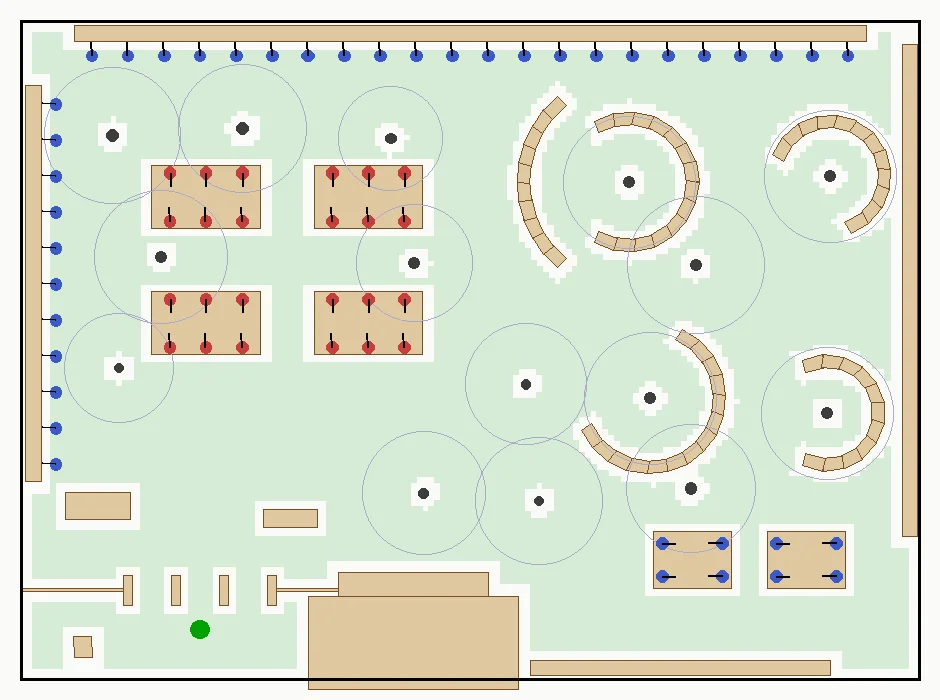
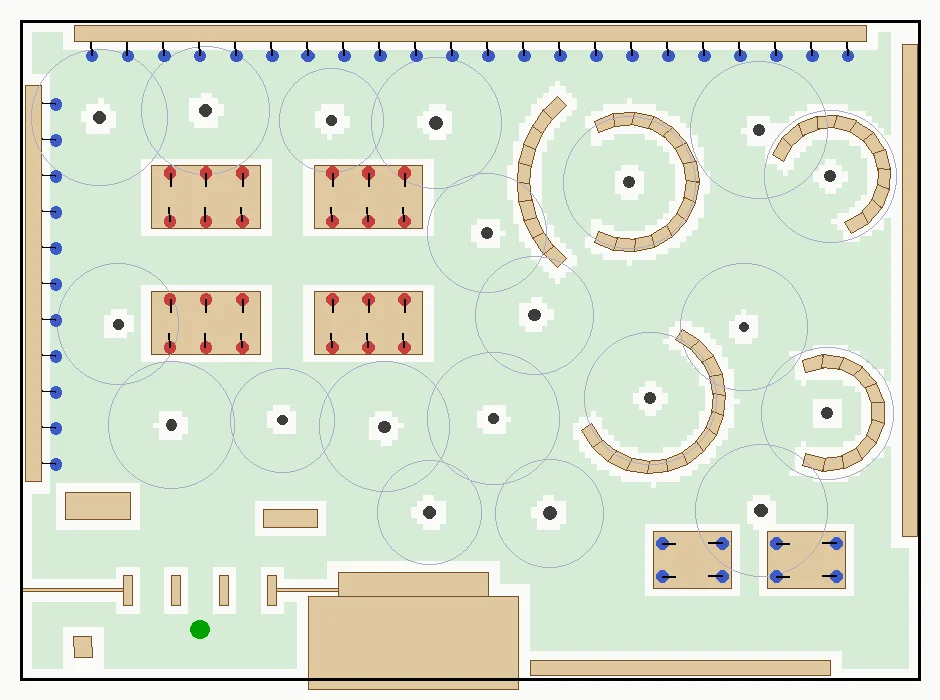
WIP（checkpoint）⑬：配置產生 src/data/soclib_layout.js（20 支樹狀柱、柱頂高度錯開、50 個天窗、導航阻擋 rects／circles、65 個座位）
Claude-Session: https://claude.ai/code/session_01AC1WVgJSmoJK1uRsPK2Zn1

diff --git a/src/data/soclib_layout.js b/src/data/soclib_layout.js
@@ -1,0 +1,4 @@
+/* ===== 社會科學院 辜振甫先生紀念圖書館（⑬）室內配置：tools/blender/env_second/soclib_layout_gen.py 產生，不要手改 =====
+   社會科學院 辜振甫先生紀念圖書館（⑬）的室內配置 → src/data/soclib_layout.js（const SOCLIB_LAYOUT= 後面接純 JSON）。
+   遊戲（LAWWW 的區域程式：導航格、座位、互動點）和 Blender（tools/blender/env_second/soclib_interior.py）讀同一份，兩邊一定對得上。 */
+const SOCLIB_LAYOUT={"version":1,"W":30.0,"D":22.0,"H":5.6,"wallT":0.2,"cell":0.4,"walls":{"north":"glass","west":"glass","east":"solid","south":"solid"},"entrance":{"x":-9.0,"w":2.4,"exitZ":10.2,"spawn":{"x":-9.0,"z":9.3,"yaw":3.1416}},"gates":{"z":8.0,"posts":[-11.4,-9.8,-8.2,-6.6],"postW":0.3,"postD":1.0,"rails":[[-14.9,-11.55],[-6.45,-4.4]]},"desk":{"x0":-4.4,"x1":0.6,"z0":7.4,"z1":8.2,"staff":{"z0":8.2,"z1":10.9}},"columns":[{"x":5.3,"z":-5.6,"r":0.19,"cap":2.2,"capY":5.07},{"x":12.0,"z":-5.8,"r":0.19,"cap":2.2,"capY":4.91},{"x":6.0,"z":1.6,"r":0.19,"cap":2.2,"capY":4.81},{"x":11.9,"z":2.1,"r":0.19,"cap":2.2,"capY":4.97},{"x":-12.36,"z":-7.74,"r":0.196,"cap":2.27,"capY":4.83},{"x":-8.82,"z":-7.98,"r":0.2,"cap":2.14,"capY":5.13},{"x":-4.62,"z":-7.65,"r":0.176,"cap":1.73,"capY":4.83},{"x":-1.13,"z":-7.57,"r":0.207,"cap":2.17,"capY":5.13},{"x":9.64,"z":-7.33,"r":0.179,"cap":2.28,"capY":4.92},{"x":0.56,"z":-3.91,"r":0.186,"cap":1.99,"capY":4.93},{"x":-11.72,"z":-0.86,"r":0.16,"cap":2.02,"capY":5.03},{"x":2.15,"z":-1.16,"r":0.191,"cap":1.97,"capY":5.04},{"x":9.14,"z":-0.77,"r":0.156,"cap":2.11,"capY":5.2},{"x":-9.95,"z":2.49,"r":0.177,"cap":2.11,"capY":5.1},{"x":-6.25,"z":2.34,"r":0.157,"cap":1.74,"capY":5.0},{"x":-2.85,"z":2.56,"r":0.187,"cap":2.17,"capY":5.24},{"x":0.78,"z":2.28,"r":0.168,"cap":2.2,"capY":5.02},{"x":-1.36,"z":5.42,"r":0.194,"cap":1.73,"capY":5.04},{"x":2.66,"z":5.44,"r":0.208,"cap":1.8,"capY":4.82},{"x":9.7,"z":5.36,"r":0.205,"cap":2.2,"capY":4.92}],"skylights":[{"x":1.95,"z":-9.07,"r":0.69},{"x":5.45,"z":-9.49,"r":0.47},{"x":12.63,"z":-9.42,"r":0.74},{"x":2.29,"z":-6.25,"r":0.67},{"x":-11.82,"z":-4.44,"r":0.75},{"x":-8.5,"z":-4.75,"r":0.68},{"x":-5.83,"z":-5.03,"r":0.6},{"x":-2.24,"z":-4.94,"r":0.53},{"x":8.03,"z":-4.6,"r":0.49},{"x":-13.66,"z":-3.28,"r":0.77},{"x":-7.25,"z":-3.21,"r":0.49},{"x":-3.79,"z":-3.3,"r":0.67},{"x":-8.47,"z":-1.85,"r":0.79},{"x":-5.82,"z":-1.78,"r":0.71},{"x":-2.43,"z":-1.56,"r":0.66},{"x":5.44,"z":-1.7,"r":0.67},{"x":12.84,"z":-1.5,"r":0.6},{"x":-7.37,"z":-0.04,"r":0.69},{"x":-1.16,"z":-0.44,"r":0.53},{"x":-13.66,"z":1.42,"r":0.73},{"x":-13.07,"z":4.73,"r":0.67},{"x":-11.72,"z":6.14,"r":0.55},{"x":-9.02,"z":5.88,"r":0.75},{"x":-5.86,"z":5.95,"r":0.64},{"x":-4.25,"z":6.19,"r":0.47},{"x":12.83,"z":5.92,"r":0.77},{"x":-13.75,"z":7.39,"r":0.63},{"x":-10.13,"z":7.79,"r":0.75},{"x":-7.06,"z":7.42,"r":0.66},{"x":-1.26,"z":7.84,"r":0.47},{"x":0.26,"z":7.4,"r":0.55},{"x":5.06,"z":7.35,"r":0.6},{"x":13.19,"z":7.71,"r":0.5},{"x":-13.38,"z":9.07,"r":0.5},{"x":-11.86,"z":9.39,"r":0.55},{"x":-5.84,"z":8.96,"r":0.46},{"x":-3.97,"z":9.21,"r":0.51},{"x":2.16,"z":8.98,"r":0.5},{"x":6.52,"z":9.33,"r":0.74},{"x":9.87,"z":8.91,"r":0.71}],"furniture":[{"type":"readingTable","x":-8.8,"z":-5.1,"w":3.6,"d":1.1,"seats":6},{"type":"readingTable","x":-8.8,"z":-0.9,"w":3.6,"d":1.1,"seats":6},{"type":"readingTable","x":-3.4,"z":-5.1,"w":3.6,"d":1.1,"seats":6},{"type":"readingTable","x":-3.4,"z":-0.9,"w":3.6,"d":1.1,"seats":6},{"type":"windowCounter","x0":-13.2,"x1":13.2,"z":-10.55,"d":0.55,"side":"north"},{"type":"windowCounter","z0":-8.8,"z1":4.4,"x":-14.55,"d":0.55,"side":"west"},{"type":"wallShelf","x":14.65,"z0":-10.2,"z1":6.2,"d":0.5,"h":2.4,"side":"east"},{"type":"arcShelf","cx":5.3,"cz":-5.6,"r":2.1,"a0":4.189,"a1":8.378,"d":0.42,"h":1.5},{"type":"arcShelf","cx":12.0,"cz":-5.8,"r":1.8,"a0":3.491,"a1":7.505,"d":0.42,"h":1.5},{"type":"arcShelf","cx":6.0,"cz":1.6,"r":2.3,"a0":-1.134,"a1":2.705,"d":0.42,"h":1.5},{"type":"arcShelf","cx":11.9,"cz":2.1,"r":1.7,"a0":4.276,"a1":8.29,"d":0.42,"h":1.5},{"type":"arcShelf","cx":5.3,"cz":-5.6,"r":3.5,"a0":2.269,"a1":4.014,"d":0.42,"h":1.2},{"type":"lounge","x":7.4,"z":7.0,"n":4},{"type":"lounge","x":11.2,"z":7.0,"n":4},{"type":"display","x":-12.4,"z":5.2,"w":2.2,"d":0.9},{"type":"opac","x":-6.0,"z":5.6,"n":2},{"type":"returnBox","x":-12.9,"z":9.9,"ry":1.5708},{"type":"periodicals","x0":2.0,"x1":12.0,"z":10.6,"d":0.5,"h":1.6}],"seats":[{"x":-10.0,"z":-5.9,"yaw":0.0,"kind":"table"},{"x":-10.0,"z":-4.3,"yaw":3.1416,"kind":"table"},{"x":-8.8,"z":-5.9,"yaw":0.0,"kind":"table"},{"x":-8.8,"z":-4.3,"yaw":3.1416,"kind":"table"},{"x":-7.6,"z":-5.9,"yaw":0.0,"kind":"table"},{"x":-7.6,"z":-4.3,"yaw":3.1416,"kind":"table"},{"x":-10.0,"z":-1.7,"yaw":0.0,"kind":"table"},{"x":-10.0,"z":-0.1,"yaw":3.1416,"kind":"table"},{"x":-8.8,"z":-1.7,"yaw":0.0,"kind":"table"},{"x":-8.8,"z":-0.1,"yaw":3.1416,"kind":"table"},{"x":-7.6,"z":-1.7,"yaw":0.0,"kind":"table"},{"x":-7.6,"z":-0.1,"yaw":3.1416,"kind":"table"},{"x":-4.6,"z":-5.9,"yaw":0.0,"kind":"table"},{"x":-4.6,"z":-4.3,"yaw":3.1416,"kind":"table"},{"x":-3.4,"z":-5.9,"yaw":0.0,"kind":"table"},{"x":-3.4,"z":-4.3,"yaw":3.1416,"kind":"table"},{"x":-2.2,"z":-5.9,"yaw":0.0,"kind":"table"},{"x":-2.2,"z":-4.3,"yaw":3.1416,"kind":"table"},{"x":-4.6,"z":-1.7,"yaw":0.0,"kind":"table"},{"x":-4.6,"z":-0.1,"yaw":3.1416,"kind":"table"},{"x":-3.4,"z":-1.7,"yaw":0.0,"kind":"table"},{"x":-3.4,"z":-0.1,"yaw":3.1416,"kind":"table"},{"x":-2.2,"z":-1.7,"yaw":0.0,"kind":"table"},{"x":-2.2,"z":-0.1,"yaw":3.1416,"kind":"table"},{"x":-12.6,"z":-9.8,"yaw":3.1416,"kind":"window"},{"x":-11.4,"z":-9.8,"yaw":3.1416,"kind":"window"},{"x":-10.2,"z":-9.8,"yaw":3.1416,"kind":"window"},{"x":-9.0,"z":-9.8,"yaw":3.1416,"kind":"window"},{"x":-7.8,"z":-9.8,"yaw":3.1416,"kind":"window"},{"x":-6.6,"z":-9.8,"yaw":3.1416,"kind":"window"},{"x":-5.4,"z":-9.8,"yaw":3.1416,"kind":"window"},{"x":-4.2,"z":-9.8,"yaw":3.1416,"kind":"window"},{"x":-3.0,"z":-9.8,"yaw":3.1416,"kind":"window"},{"x":-1.8,"z":-9.8,"yaw":3.1416,"kind":"window"},{"x":-0.6,"z":-9.8,"yaw":3.1416,"kind":"window"},{"x":0.6,"z":-9.8,"yaw":3.1416,"kind":"window"},{"x":1.8,"z":-9.8,"yaw":3.1416,"kind":"window"},{"x":3.0,"z":-9.8,"yaw":3.1416,"kind":"window"},{"x":4.2,"z":-9.8,"yaw":3.1416,"kind":"window"},{"x":5.4,"z":-9.8,"yaw":3.1416,"kind":"window"},{"x":6.6,"z":-9.8,"yaw":3.1416,"kind":"window"},{"x":7.8,"z":-9.8,"yaw":3.1416,"kind":"window"},{"x":9.0,"z":-9.8,"yaw":3.1416,"kind":"window"},{"x":10.2,"z":-9.8,"yaw":3.1416,"kind":"window"},{"x":11.4,"z":-9.8,"yaw":3.1416,"kind":"window"},{"x":12.6,"z":-9.8,"yaw":3.1416,"kind":"window"},{"x":-13.8,"z":-8.2,"yaw":-1.5708,"kind":"window"},{"x":-13.8,"z":-7.0,"yaw":-1.5708,"kind":"window"},{"x":-13.8,"z":-5.8,"yaw":-1.5708,"kind":"window"},{"x":-13.8,"z":-4.6,"yaw":-1.5708,"kind":"window"},{"x":-13.8,"z":-3.4,"yaw":-1.5708,"kind":"window"},{"x":-13.8,"z":-2.2,"yaw":-1.5708,"kind":"window"},{"x":-13.8,"z":-1.0,"yaw":-1.5708,"kind":"window"},{"x":-13.8,"z":0.2,"yaw":-1.5708,"kind":"window"},{"x":-13.8,"z":1.4,"yaw":-1.5708,"kind":"window"},{"x":-13.8,"z":2.6,"yaw":-1.5708,"kind":"window"},{"x":-13.8,"z":3.8,"yaw":-1.5708,"kind":"window"},{"x":6.4,"z":6.45,"yaw":1.5708,"kind":"lounge"},{"x":6.4,"z":7.55,"yaw":1.5708,"kind":"lounge"},{"x":8.4,"z":6.45,"yaw":-1.5708,"kind":"lounge"},{"x":8.4,"z":7.55,"yaw":-1.5708,"kind":"lounge"},{"x":10.2,"z":6.45,"yaw":1.5708,"kind":"lounge"},{"x":10.2,"z":7.55,"yaw":1.5708,"kind":"lounge"},{"x":12.2,"z":6.45,"yaw":-1.5708,"kind":"lounge"},{"x":12.2,"z":7.55,"yaw":-1.5708,"kind":"lounge"}],"signs":[{"text":"社會科學院圖書館","x":-2.0,"z":10.88,"y":3.6,"ry":3.1416,"w":3.6}],"nav":{"rects":[[-8.8,-5.1,3.6,2.1,0],[-8.8,-0.9,3.6,2.1,0],[-3.4,-5.1,3.6,2.1,0],[-3.4,-0.9,3.6,2.1,0],[0.0,-10.55,26.4,0.55,0],[-14.55,-2.2,0.55,13.2,0],[14.65,-2.0,0.5,16.4,0],[4.533,-7.555,0.688,0.42,-2.768],[5.144,-7.694,0.688,0.42,-3.067],[5.768,-7.647,0.688,0.42,-3.366],[6.35,-7.418,0.688,0.42,-3.666],[6.84,-7.028,0.688,0.42,-3.965],[7.192,-6.511,0.688,0.42,-4.264],[7.377,-5.912,0.688,0.42,-4.563],[7.376,-5.286,0.688,0.42,-4.862],[7.192,-4.688,0.688,0.42,-5.162],[6.839,-4.171,0.688,0.42,-5.461],[6.349,-3.781,0.688,0.42,-5.76],[5.767,-3.552,0.688,0.42,-6.059],[5.142,-3.506,0.688,0.42,-6.358],[4.532,-3.645,0.688,0.42,-6.658],[10.435,-6.689,0.662,0.42,-2.087],[10.814,-7.154,0.662,0.42,-2.422],[11.324,-7.468,0.662,0.42,-2.756],[11.909,-7.598,0.662,0.42,-3.091],[12.504,-7.528,0.662,0.42,-3.425],[13.043,-7.267,0.662,0.42,-3.76],[13.467,-6.843,0.662,0.42,-4.095],[13.728,-6.303,0.662,0.42,-4.429],[13.798,-5.708,0.662,0.42,-4.763],[13.668,-5.123,0.662,0.42,-5.098],[13.353,-4.613,0.662,0.42,-5.433],[12.888,-4.235,0.662,0.42,-5.767],[7.249,-0.332,0.691,0.42,2.568],[7.725,0.079,0.691,0.42,2.293],[8.073,0.603,0.691,0.42,2.019],[8.265,1.201,0.691,0.42,1.745],[8.289,1.83,0.691,0.42,1.471],[8.141,2.441,0.691,0.42,1.197],[7.833,2.989,0.691,0.42,0.922],[7.389,3.434,0.691,0.42,0.648],[6.84,3.741,0.691,0.42,0.374],[6.229,3.889,0.691,0.42,0.1],[5.601,3.865,0.691,0.42,-0.174],[5.002,3.672,0.691,0.42,-0.449],[4.478,3.325,0.691,0.42,-0.723],[4.068,2.848,0.691,0.42,-0.997],[11.473,0.455,0.68,0.42,-2.888],[12.088,0.41,0.68,0.42,-3.253],[12.679,0.589,0.68,0.42,-3.618],[13.167,0.966,0.68,0.42,-3.982],[13.488,1.493,0.68,0.42,-4.347],[13.6,2.1,0.68,0.42,-4.712],[13.488,2.706,0.68,0.42,-5.077],[13.167,3.233,0.68,0.42,-5.442],[12.679,3.611,0.68,0.42,-5.807],[12.089,3.789,0.68,0.42,-6.172],[11.474,3.746,0.68,0.42,-6.537],[2.825,-3.125,0.671,0.42,-0.785],[2.433,-3.593,0.671,0.42,-0.96],[2.128,-4.121,0.671,0.42,-1.135],[1.919,-4.694,0.671,0.42,-1.309],[1.813,-5.295,0.671,0.42,-1.484],[1.813,-5.905,0.671,0.42,-1.658],[1.919,-6.505,0.671,0.42,-1.833],[2.128,-7.079,0.671,0.42,-2.007],[2.433,-7.607,0.671,0.42,-2.182],[2.825,-8.074,0.671,0.42,-2.356],[7.4,7.0,2.6,1.9,0],[11.2,7.0,2.6,1.9,0],[-12.4,5.2,2.2,0.9,0],[-6.0,5.6,1.8,0.6,0],[-12.9,9.9,0.7,0.6,1.571],[7.0,10.6,10.0,0.5,0],[-11.4,8.0,0.3,1.0,0],[-9.8,8.0,0.3,1.0,0],[-8.2,8.0,0.3,1.0,0],[-6.6,8.0,0.3,1.0,0],[-13.225,8.0,3.35,0.1,0],[-5.425,8.0,2.05,0.1,0],[-1.9,7.8,5.0,0.8,0],[-1.9,9.75,7.0,3.1,0]],"circles":[[5.3,-5.6,0.24],[12.0,-5.8,0.24],[6.0,1.6,0.24],[11.9,2.1,0.24],[-12.36,-7.74,0.246],[-8.82,-7.98,0.25],[-4.62,-7.65,0.226],[-1.13,-7.57,0.257],[9.64,-7.33,0.229],[0.56,-3.91,0.236],[-11.72,-0.86,0.21],[2.15,-1.16,0.241],[9.14,-0.77,0.206],[-9.95,2.49,0.227],[-6.25,2.34,0.207],[-2.85,2.56,0.237],[0.78,2.28,0.218],[-1.36,5.42,0.244],[2.66,5.44,0.258],[9.7,5.36,0.255]],"note":"rects＝[中心x, 中心z, 寬(沿 ry 轉過的 x), 深, ry]；circles＝[x, z, r]；牆照 W×D、wallT 另外擋；入口門洞在南牆 x=entrance.x 寬 entrance.w"}};

diff --git a/tools/blender/env_second/soclib_layout_gen.py b/tools/blender/env_second/soclib_layout_gen.py
@@ -78,15 +78,27 @@ def clear_of_furniture(x, z):
         if t == 'readingTable' and abs(x - f['x']) < f['w'] / 2 + 0.9 and abs(z - f['z']) < f['d'] / 2 + 1.4: return False
         if t == 'lounge' and abs(x - f['x']) < 2.2 and abs(z - f['z']) < 1.6: return False
     return True
-for j, z in enumerate([-7.0, -3.0, 1.0, 4.8]):
-    for i, x in enumerate([-11.6, -7.2, -2.8, 1.6, 6.0, 10.4]):
-        xx = x + (1.1 if j % 2 else 0.0) + rng.uniform(-0.45, 0.45); zz = z + rng.uniform(-0.4, 0.4)
+for j, z in enumerate([-7.6, -4.3, -1.0, 2.3, 5.4]):
+    for i, x in enumerate([-12.0, -8.4, -4.8, -1.2, 2.4, 6.0, 9.6, 13.2]):
+        xx = x + (1.8 if j % 2 else 0.0) + rng.uniform(-0.5, 0.5); zz = z + rng.uniform(-0.4, 0.4)
         if zz > 3.8 and xx < -2.5: continue                                  # 入口、閘門、服務台那一帶不放柱子
         if xx > X1 - 1.8 or xx < X0 + 2.0: continue
         if not clear_of_furniture(xx, zz): continue
-        if any(math.hypot(xx - c['x'], zz - c['z']) < 3.2 for c in cols): continue
+        if any(math.hypot(xx - c['x'], zz - c['z']) < 2.7 for c in cols): continue
         cols.append({'x': round(xx, 2), 'z': round(zz, 2), 'r': round(rng.uniform(0.15, 0.21), 3), 'cap': round(rng.uniform(1.7, 2.3), 2)})
+for c in cols: c['capY'] = round(rng.uniform(4.75, 5.25), 2)            # 柱頂（荷葉）的高度不一樣：一片一片錯開，像樹冠
 L['columns'] = cols
+# 天窗：屋頂上圓形的開口（底下是短短的光井、頂上是天空色的面板）；放在荷葉柱頂之間的空隙
+sky = []
+for z in [Z0 + 1.6 + k * 1.55 for k in range(13)]:
+    for x in [X0 + 1.6 + k * 1.55 for k in range(18)]:
+        xx, zz = x + rng.uniform(-0.35, 0.35), z + rng.uniform(-0.35, 0.35)
+        if not (X0 + 1.2 < xx < X1 - 1.2 and Z0 + 1.2 < zz < Z1 - 1.6): continue
+        r = round(rng.uniform(0.45, 0.8), 2)
+        if any(math.hypot(xx - c['x'], zz - c['z']) < c['cap'] + r + 0.15 for c in cols): continue
+        if any(math.hypot(xx - u['x'], zz - u['z']) < r + u['r'] + 0.5 for u in sky): continue
+        sky.append({'x': round(xx, 2), 'z': round(zz, 2), 'r': r})
+L['skylights'] = sky
 L['furniture'] = F
 L['seats'] = SEATS
 L['signs'] = [{'text': '社會科學院圖書館', 'x': -2.0, 'z': Z1 - WT / 2 - 0.02, 'y': 3.6, 'ry': round(math.pi, 4), 'w': 3.6}]
